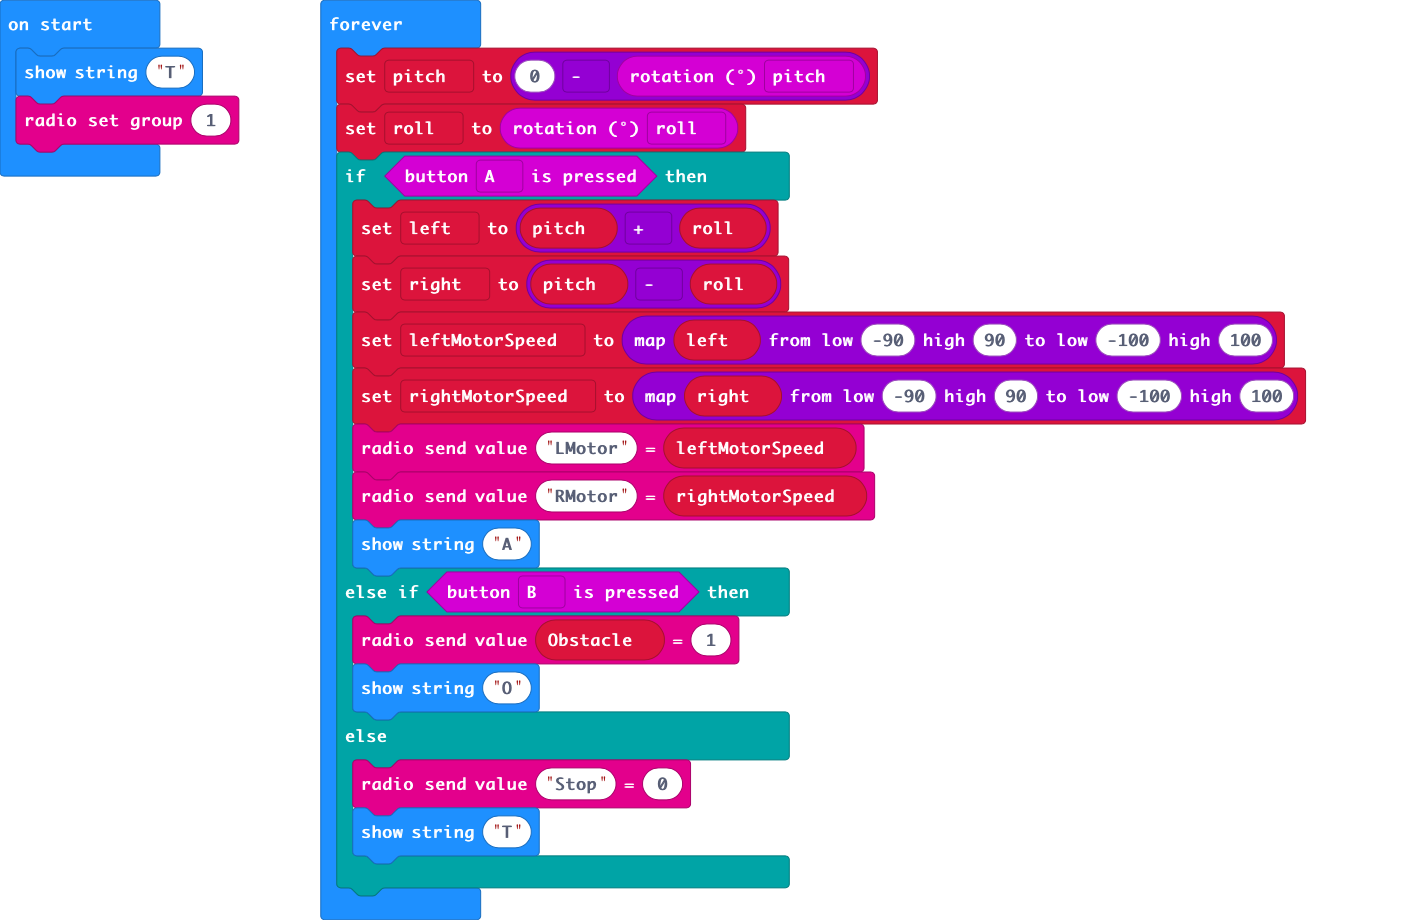
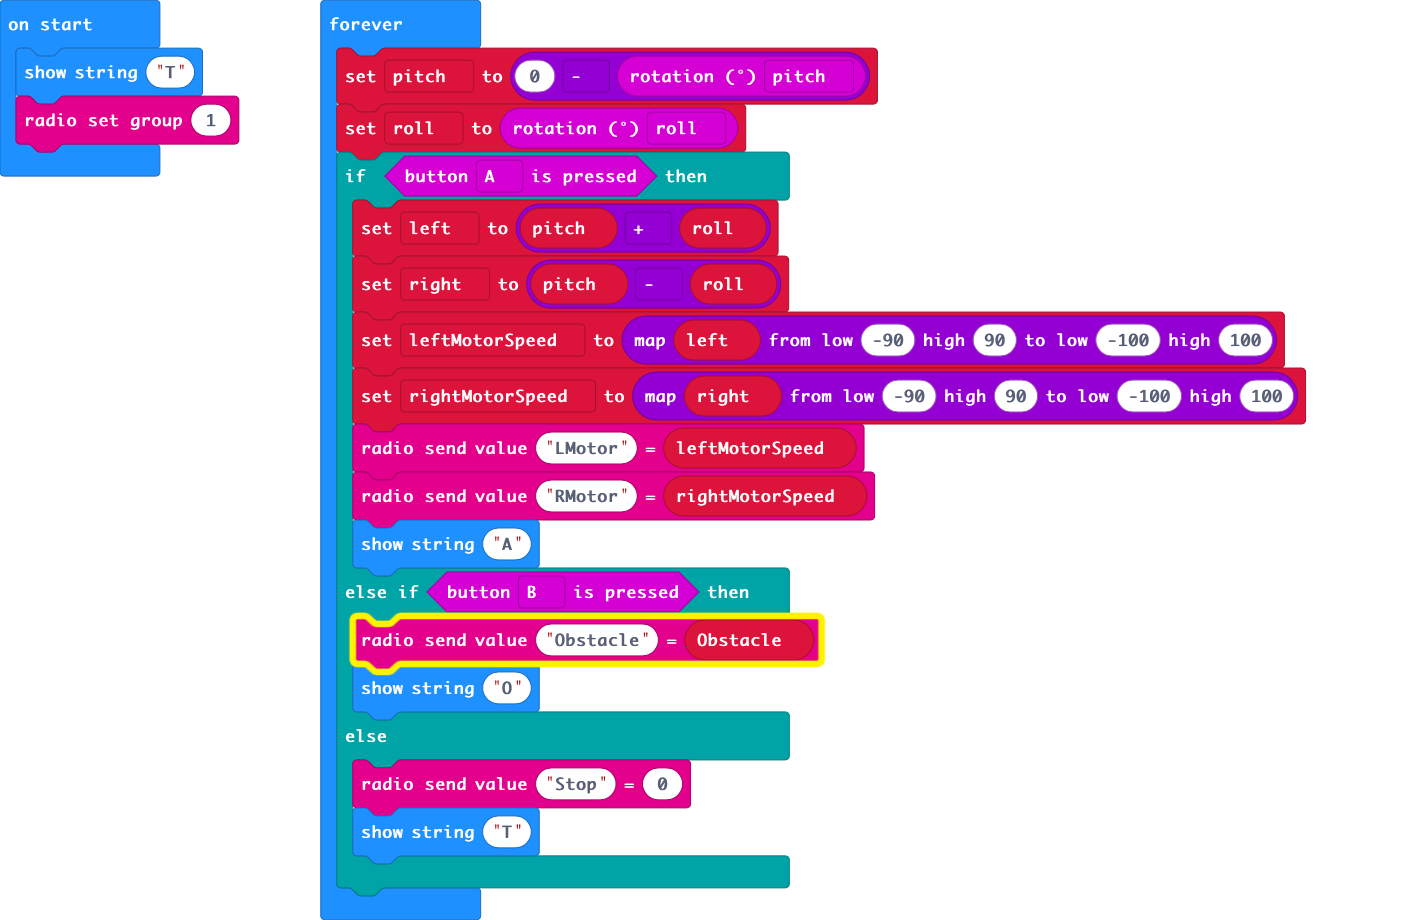
Update main.blocks, main.ts

Changed region(s): [[0.2496, 0.6391, 0.5929, 0.7304]]

diff --git a/main.ts b/main.ts
@@ -18,8 +18,8 @@ basic.forever(function () {
         radio.sendValue("RMotor", rightMotorSpeed)
         basic.showString("A")
     } else if (input.buttonIsPressed(Button.B)) {
-        let Obstacle = ""
-        radio.sendValue(Obstacle, 1)
+        let Obstacle = 0
+        radio.sendValue("Obstacle", Obstacle)
         basic.showString("O")
     } else {
         radio.sendValue("Stop", 0)
